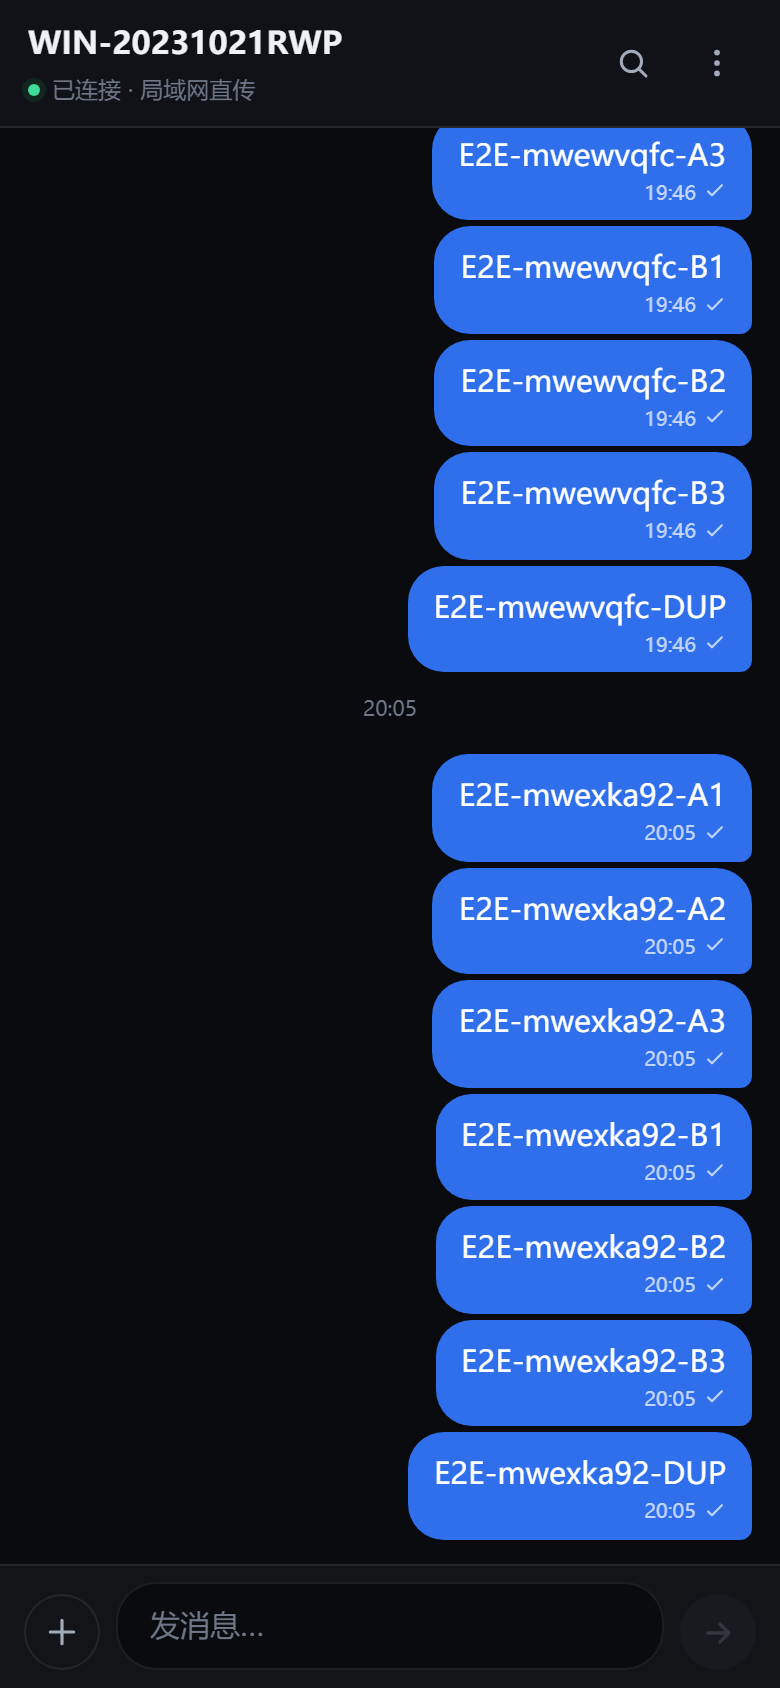
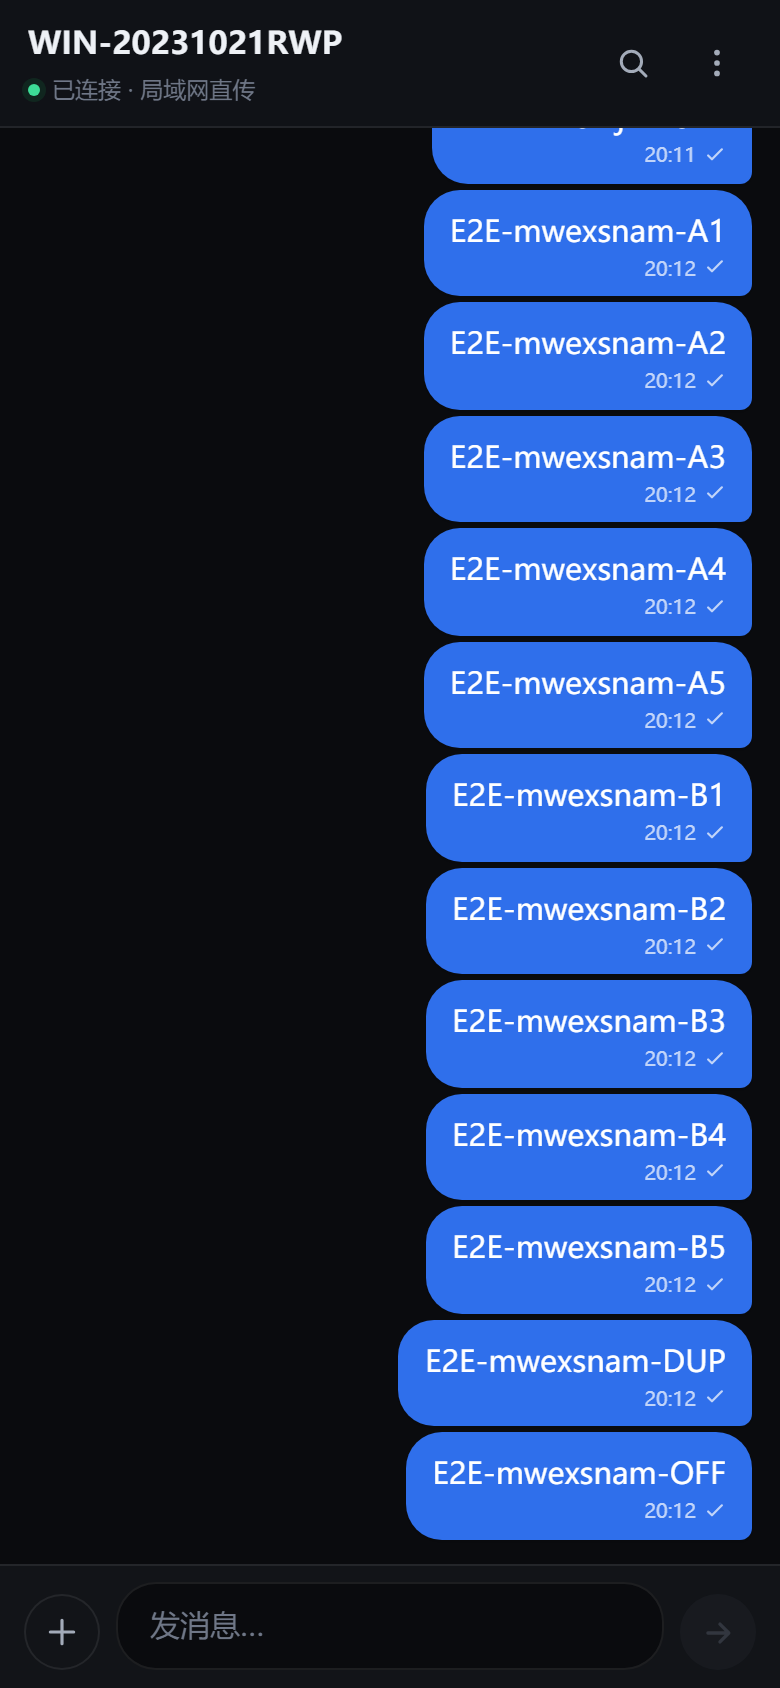
test: E2E 覆盖假连接与重连补发，补齐 5+5 条回归与验证记录
- tools/e2e-mobile.js 增加 --offline：页面内注入帧丢失 + HTTP 不通，
  验证消息停在发送中、恢复后自动重连补发且只落库一条
- docs/VERIFY-2.0.0.md 更新为 10/10 实测结果（5 条 + 刷新后 5 条 + 假连接）

diff --git a/tools/e2e-mobile.js b/tools/e2e-mobile.js
@@ -350,6 +350,54 @@ async function main() {
     const dupCount = ((history2 && history2.messages) || []).filter((x) => x.text === `E2E-${stamp}-DUP`).length;
     check('重复 cid 只落库一条', dupCount === 1, `count=${dupCount}`);
 
+    // ---------- 假连接 / 断网 → 重连自动补发（可选，--offline） ----------
+    // DevTools 的 offline 只影响 HTTP，不影响已建立的 WebSocket，
+    // 这里在页面里注入故障：send 的帧直接丢弃（模拟锁屏/切网后的假连接），
+    // 同时让 HTTP 兜底也失败，完整走一遍「发送中 → 判死 → 重连 → 补发」。
+    if (process.argv.includes('--offline')) {
+      const offlineText = `E2E-${stamp}-OFF`;
+      const injected = await evaluate(`(() => {
+        window.__nsSavedSend = WebSocket.prototype.send;
+        window.__nsSavedFetch = window.fetch;
+        WebSocket.prototype.send = function () { return; };
+        window.fetch = function () { return Promise.reject(new TypeError('simulated offline')); };
+        return true;
+      })()`);
+      check('故障注入成功（模拟帧丢失 + HTTP 不通）', injected === true);
+
+      await send(offlineText);
+      await sleep(2000);
+      const down = await evaluate(probe());
+      check('假连接时消息不会假装已送达，停在待发送/发送中', !!down && down.pending >= 1,
+        down ? `pending=${down.pending}` : '无状态');
+
+      // 恢复“网络”：还原 send/fetch，并像系统恢复联网一样触发 online
+      await evaluate(`(() => {
+        WebSocket.prototype.send = window.__nsSavedSend;
+        window.fetch = window.__nsSavedFetch;
+        window.dispatchEvent(new Event('online'));
+        return true;
+      })()`);
+
+      let recovered = false;
+      let lastProbe = null;
+      const deadline = Date.now() + 75000;
+      while (Date.now() < deadline) {
+        lastProbe = await evaluate(probe());
+        if (lastProbe.pending === 0 && lastProbe.texts.join(' ').includes(offlineText)) {
+          recovered = true;
+          break;
+        }
+        await sleep(500);
+      }
+      check('恢复网络后自动补发成功（无需手动重发）', recovered,
+        lastProbe ? `pending=${lastProbe.pending}` : '无状态');
+
+      const h3 = await evaluate(`fetch('/api/history').then(r => r.json())`, true);
+      const offCount = ((h3 && h3.messages) || []).filter((x) => x.text === offlineText).length;
+      check('断网消息补发后只落库一条', offCount === 1, `count=${offCount}`);
+    }
+
     // ---------- 截图（可选，用来看气泡状态） ----------
     if (shot) {
       const data = await cdp.send('Page.captureScreenshot', { format: 'png', captureBeyondViewport: false }, sessionId);

diff --git a/docs/VERIFY-2.0.0.md b/docs/VERIFY-2.0.0.md
@@ -26,24 +26,38 @@
 24 项全部通过，覆盖鉴权、Host 白名单、发文字、同 cid 去重、引用、上传、下载进度、
 WebSocket `ack` 回执与 `pong` 心跳。
 
-### 端到端回归 `npm run test:e2e`
+### 端到端回归 `npm run test:e2e -- --total 5 --offline`
 
 用真实无头 Chromium 打开手机页，驱动真实 UI，连接真实服务端：
 
 ```
 电脑端 http://127.0.0.1:8900 正常
-  ok   第一轮 3 条全部送达，没有「待发送」 — pending=0
-  ok   刷新页面后 3 条仍然全部送达 — pending=0
-  ok   服务端每条消息只落库一条（无重复/无丢失） — counts=1,1,1,1,1,1
+  ok   第一轮 5 条全部送达，没有「待发送」 — pending=0
+  ok   刷新页面后 5 条仍然全部送达 — pending=0
+  ok   服务端每条消息只落库一条（无重复/无丢失） — counts=1,1,1,1,1,1,1,1,1,1
   ok   同 cid 重发第二次返回 duplicate:true
   ok   duplicate 响应带回已落库的消息体
   ok   重复 cid 只落库一条
-6/6 项通过
+  ok   故障注入成功（模拟帧丢失 + HTTP 不通）
+  ok   假连接时消息不会假装已送达，停在待发送/发送中 — pending=1
+  ok   恢复网络后自动补发成功（无需手动重发） — pending=0
+  ok   断网消息补发后只落库一条
+10/10 项通过
 ```
 
-截图：`docs/verify-mobile-e2e.png` —— 刷新前后各 3 条，全部是「时间 + 单勾」，没有一条停在「待发送」。
+覆盖三个关键场景：
 
-这正是上一版最致命的场景：cid 在刷新后从 `t1` 重新开始，被服务端当成重复消息静默丢弃。
+1. **连发 5 条**：全部立即变成「时间 + 单勾」，没有一条停在「待发送」。
+2. **刷新页面后再发 5 条**：同样全部送达。这正是上一版最致命的场景——cid 刷新后从 `t1` 重新开始，
+   被服务端当成重复消息静默丢弃，气泡永远停在「待发送」。
+3. **假连接**：页面内注入故障，让 WebSocket 帧被丢弃、HTTP 兜底也不通（模拟锁屏/切网后
+   `readyState` 仍是 1 的假连接）。消息停在「发送中」而不是假装已送达；恢复后触发 `online`，
+   自动判死、重连、`flushPending` 补发，最终只落库一条。
+
+DevTools 自带的 offline 模拟只影响 HTTP、不影响已建立的 WebSocket，所以这里用页面级故障注入，
+比切换网卡更可控。
+
+截图：`docs/verify-mobile-e2e.png` —— 刷新前后各 5 条，全部是「时间 + 单勾」。
 
 ---
 
